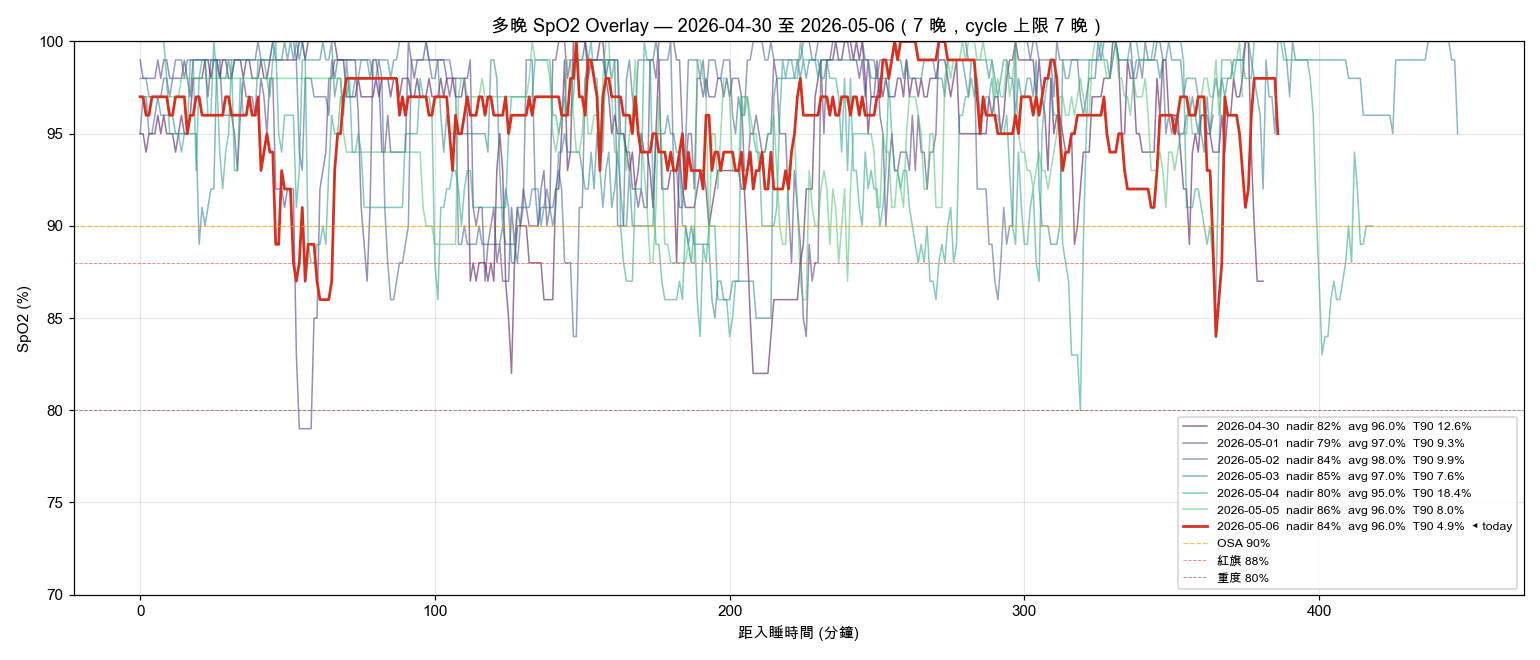
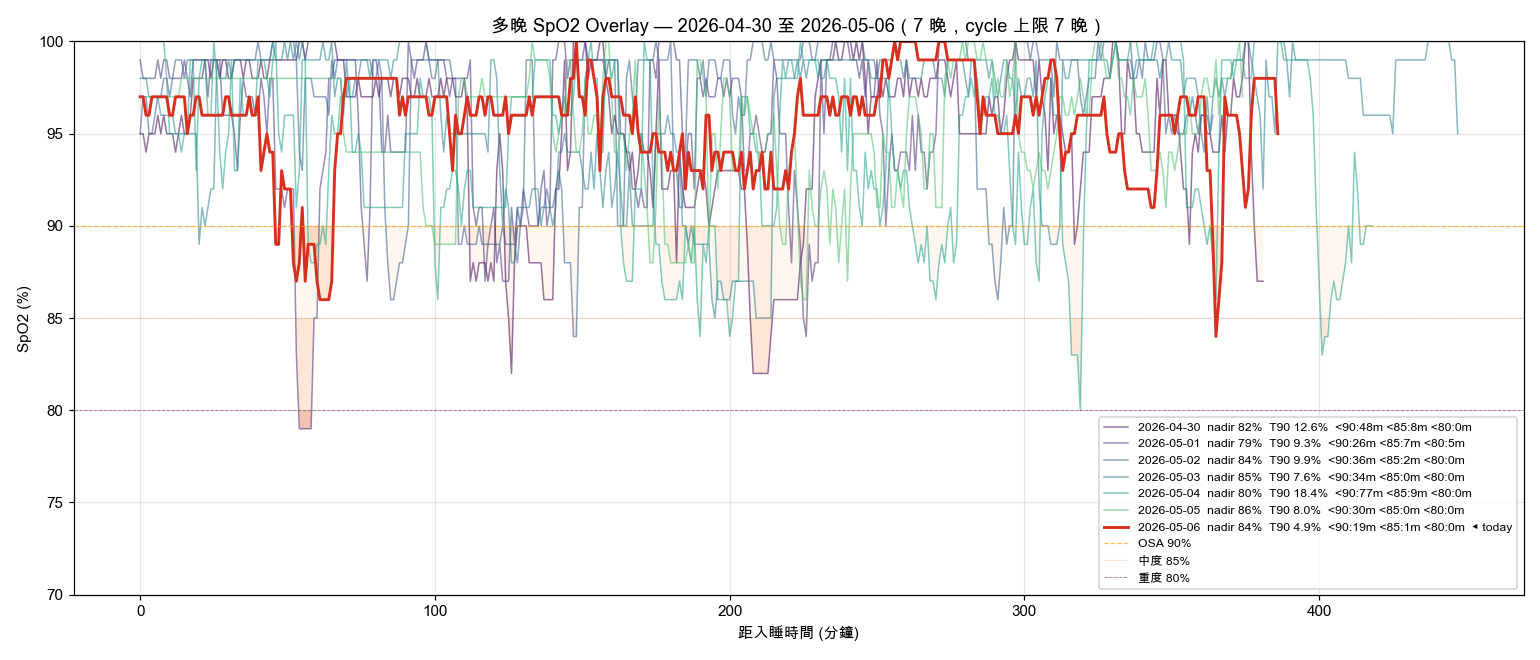
feat: SpO2 overlay 加 AUC 陰影 + <90/<85/<80 分鐘累計
- 各晚 line 下方依 90/85/80 三層 fill_between（today 高 alpha、其餘半透明）
- Legend 加 <90:Xm <85:Ym <80:Zm
- stdout 印出每晚 nadir/T90/三閾值分鐘表
- 移除 88% 線，改顯示 85% 中度線

diff --git a/scripts/analyze_spo2_desats.py b/scripts/analyze_spo2_desats.py
@@ -474,27 +474,44 @@ def cmd_overlay(today_str: str, max_nights: int = 7):
     cmap = plt.get_cmap("viridis")
     n = len(nights_to_plot)
 
-    legend_lines = []
+    def mins_below(epochs, thr):
+        return sum(1 for e in epochs if e.get("spo2Reading") is not None and e["spo2Reading"] < thr)
+
+    summary_rows = []
     for i, d in enumerate(nights_to_plot):
         epochs, summary = load_epochs(str(d))
         if not epochs:
             continue
         t0 = parse_ts(epochs[0]["epochTimestamp"])
         xs = [(parse_ts(e["epochTimestamp"]) - t0).total_seconds() / 60 for e in epochs]
-        ys = [e.get("spo2Reading") for e in epochs]
+        ys_raw = [e.get("spo2Reading") for e in epochs]
+        ys = [v if v is not None else float("nan") for v in ys_raw]
         is_today = (d == today)
         color = "#d7301f" if is_today else cmap(i / max(n - 1, 1) * 0.85)
         alpha = 1.0 if is_today else 0.55
-        lw = 1.8 if is_today else 1.0
+        lw = 1.9 if is_today else 1.0
         nadir = summary.get("lowestSPO2") if summary else None
         avg = summary.get("averageSPO2") if summary else None
         pct, _, _ = t90(epochs)
-        label = f"{d}  nadir {nadir}%  avg {avg}%  T90 {pct:.1f}%" + ("  ◀ today" if is_today else "")
+        m90 = mins_below(epochs, 90)
+        m85 = mins_below(epochs, 85)
+        m80 = mins_below(epochs, 80)
+        label = (f"{d}  nadir {nadir}%  T90 {pct:.1f}%  "
+                 f"<90:{m90}m <85:{m85}m <80:{m80}m"
+                 + ("  ◀ today" if is_today else ""))
         ax.plot(xs, ys, color=color, alpha=alpha, linewidth=lw, label=label)
-        legend_lines.append(label)
+        # AUC shading: fill between line and 90 where line<90 (and 85, 80 stacked layers)
+        fill_alpha = 0.30 if is_today else 0.10
+        ax.fill_between(xs, ys, 90, where=[(v is not None and v < 90) for v in ys_raw],
+                        color="#fdae6b", alpha=fill_alpha, interpolate=True, linewidth=0)
+        ax.fill_between(xs, ys, 85, where=[(v is not None and v < 85) for v in ys_raw],
+                        color="#fc8d59", alpha=fill_alpha + 0.05, interpolate=True, linewidth=0)
+        ax.fill_between(xs, ys, 80, where=[(v is not None and v < 80) for v in ys_raw],
+                        color="#d7301f", alpha=fill_alpha + 0.10, interpolate=True, linewidth=0)
+        summary_rows.append((d, nadir, pct, m90, m85, m80, is_today))
 
     ax.axhline(90, color="orange", linestyle="--", linewidth=0.8, alpha=0.7, label="OSA 90%")
-    ax.axhline(88, color="red", linestyle="--", linewidth=0.6, alpha=0.5, label="紅旗 88%")
+    ax.axhline(85, color="#fc8d59", linestyle=":", linewidth=0.7, alpha=0.6, label="中度 85%")
     ax.axhline(80, color="darkred", linestyle="--", linewidth=0.6, alpha=0.5, label="重度 80%")
 
     ax.set_xlabel("距入睡時間 (分鐘)")
@@ -512,6 +529,12 @@ def cmd_overlay(today_str: str, max_nights: int = 7):
     plt.close(fig)
     print(f"Overlay 圖已存：{out}")
     print(f"涵蓋 {n} 晚（cycle 上限 {max_nights}），下一晚 {'起新 cycle' if n >= max_nights else '繼續延伸'}")
+    print()
+    print(f"  {'日期':<12} {'nadir':>6} {'T90':>6}  {'<90':>5} {'<85':>5} {'<80':>5}")
+    print("  " + "-" * 50)
+    for d, nadir, pct, m90, m85, m80, is_today in summary_rows:
+        marker = " ◀" if is_today else "  "
+        print(f"  {str(d):<12} {nadir:>5}% {pct:>5.1f}%  {m90:>4}m {m85:>4}m {m80:>4}m{marker}")
 
 
 def main():
